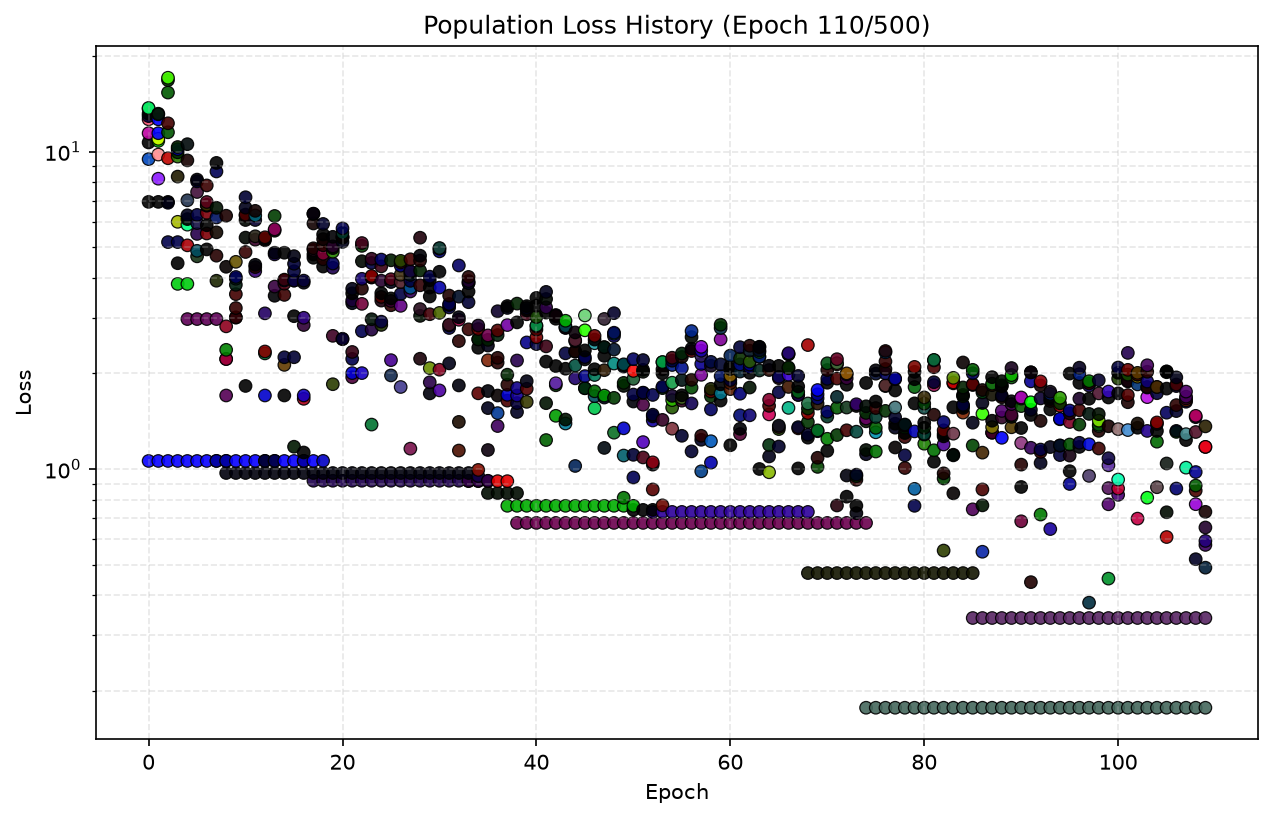
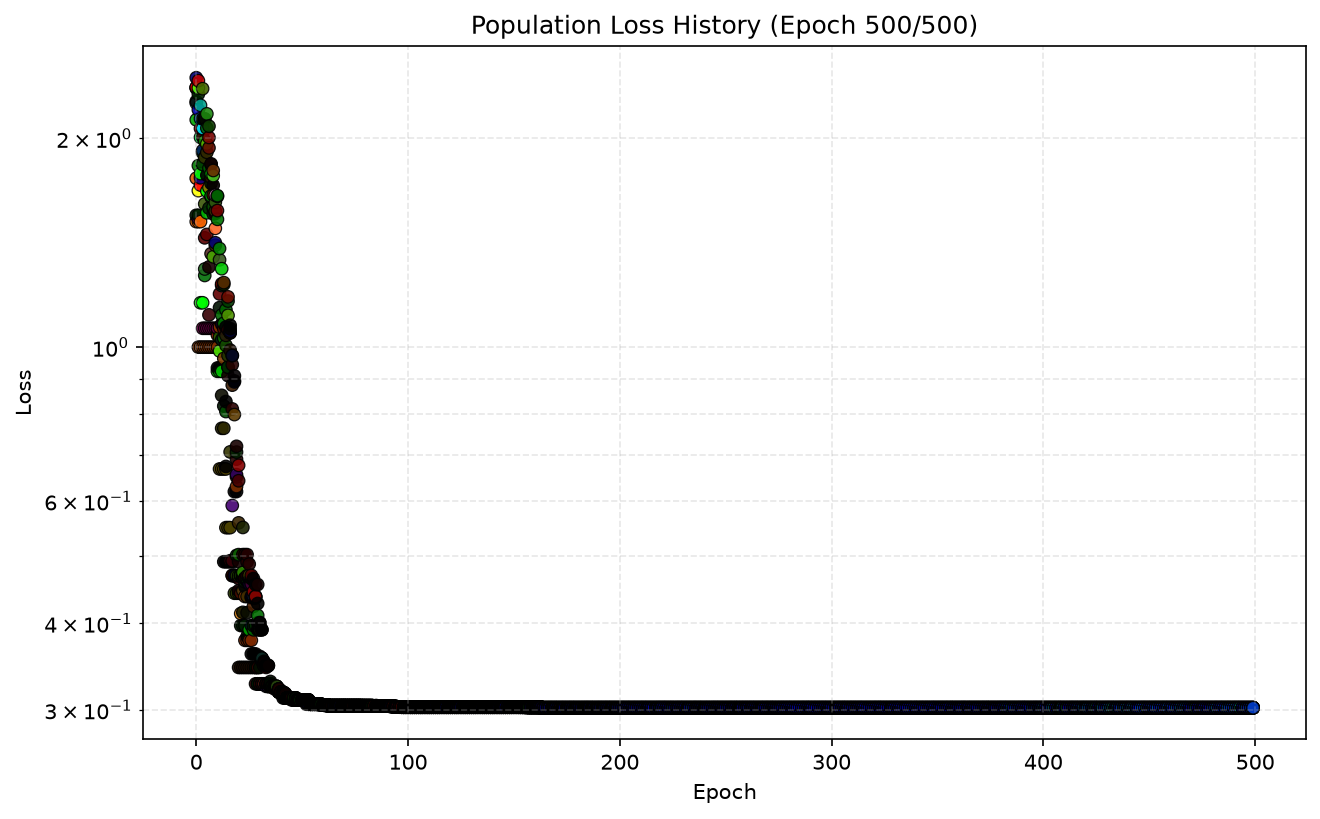
some funny bussiness is going on with negative shapes

diff --git a/src/train.py b/src/train.py
@@ -18,7 +18,7 @@ shapes = [
     'datasets/shapes/sofa.obj'
 ]
 
-mesh: trimesh.Trimesh = trimesh.load(shapes[0], force='mesh') # type: ignore
+mesh: trimesh.Trimesh = trimesh.load(shapes[3], force='mesh') # type: ignore
 
 padding = 0.05 # percent padding to add to bounds
 bounds: tuple[list[float], list[float]] = mesh.bounds
@@ -137,7 +137,7 @@ population = Population(
     p_add = 0.8,
     min_nodes = 5,
     max_nodes = 20,
-    func_weights = [1.0]*6,
+    func_weights = [1.0]*6, # you can use this as a mask to disable specific functions
     device = device,
     dtype = dtype
 )
@@ -146,9 +146,9 @@ population.train(
     verts,
     n_iter = n_iter,
     max_nodes_per_batch = 256,
-    mut_p = 0.01,
-    mut_std = 0.01,
-    mut_max_angle = 0.005,
+    mut_p = 0.05,
+    mut_std = 0.05,
+    mut_max_angle = 0.01,
     callback = callback,
     summary_count = summary_count,
     do_fitness_sharing = True, # I had a mass extinction, leave this on

diff --git a/src/model.py b/src/model.py
@@ -373,7 +373,7 @@ class Population:
                 indiv_sdfs[valid_idx] = s*sdUnion(indiv_sdfs[valid_idx], sdf, k)
 
             # take losses
-            losses[indiv_idx] = torch.sum(torch.square(indiv_sdfs), dim=1)
+            losses[indiv_idx] = torch.sum(torch.square(indiv_sdfs), dim=1) + 0.3*self.node_counts[indiv_idx]
             
         return losses
         
